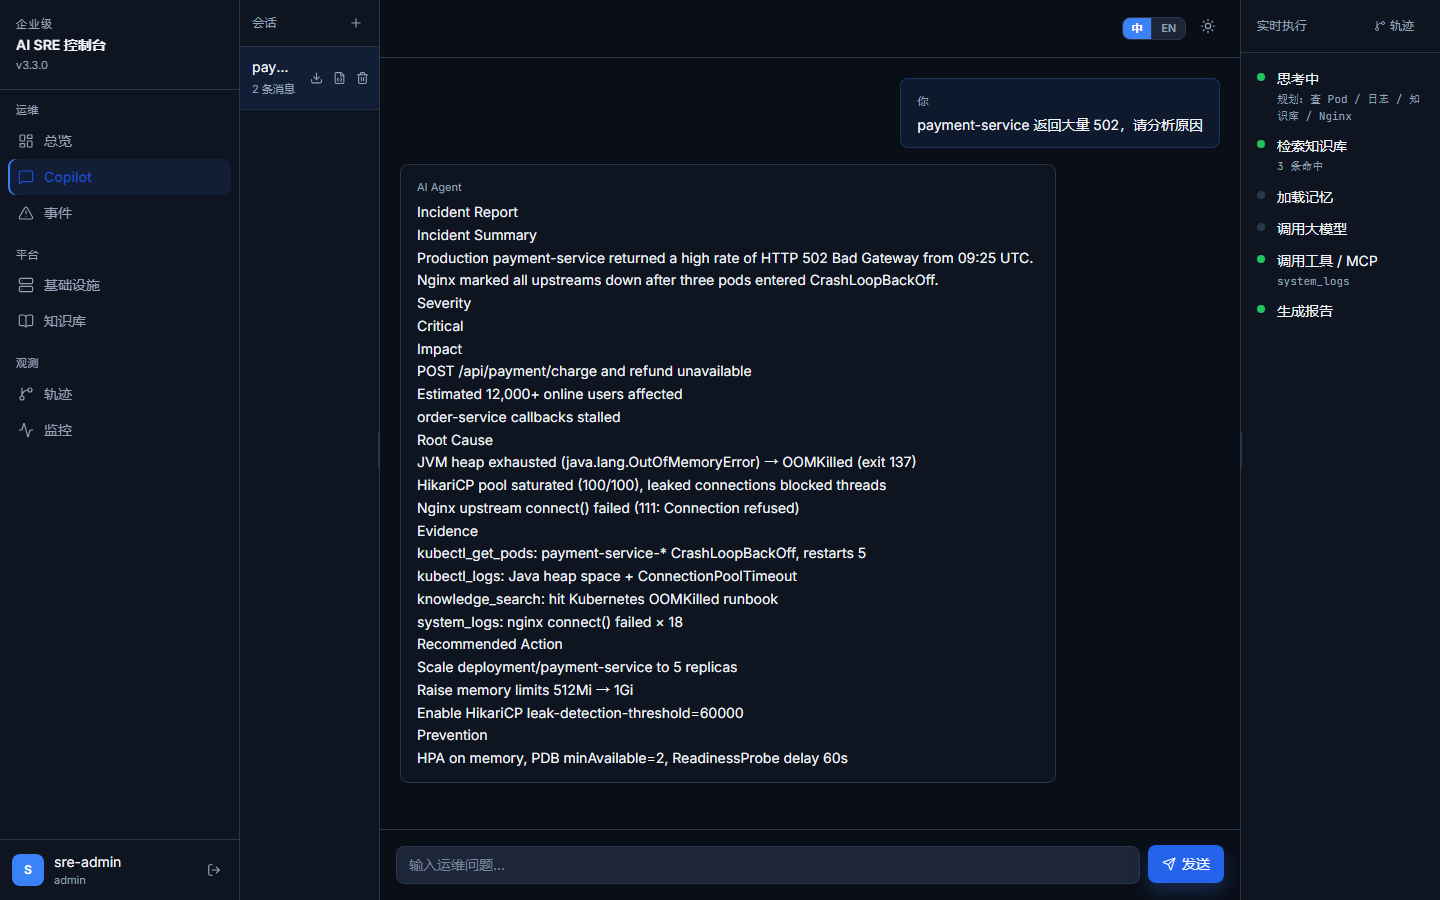
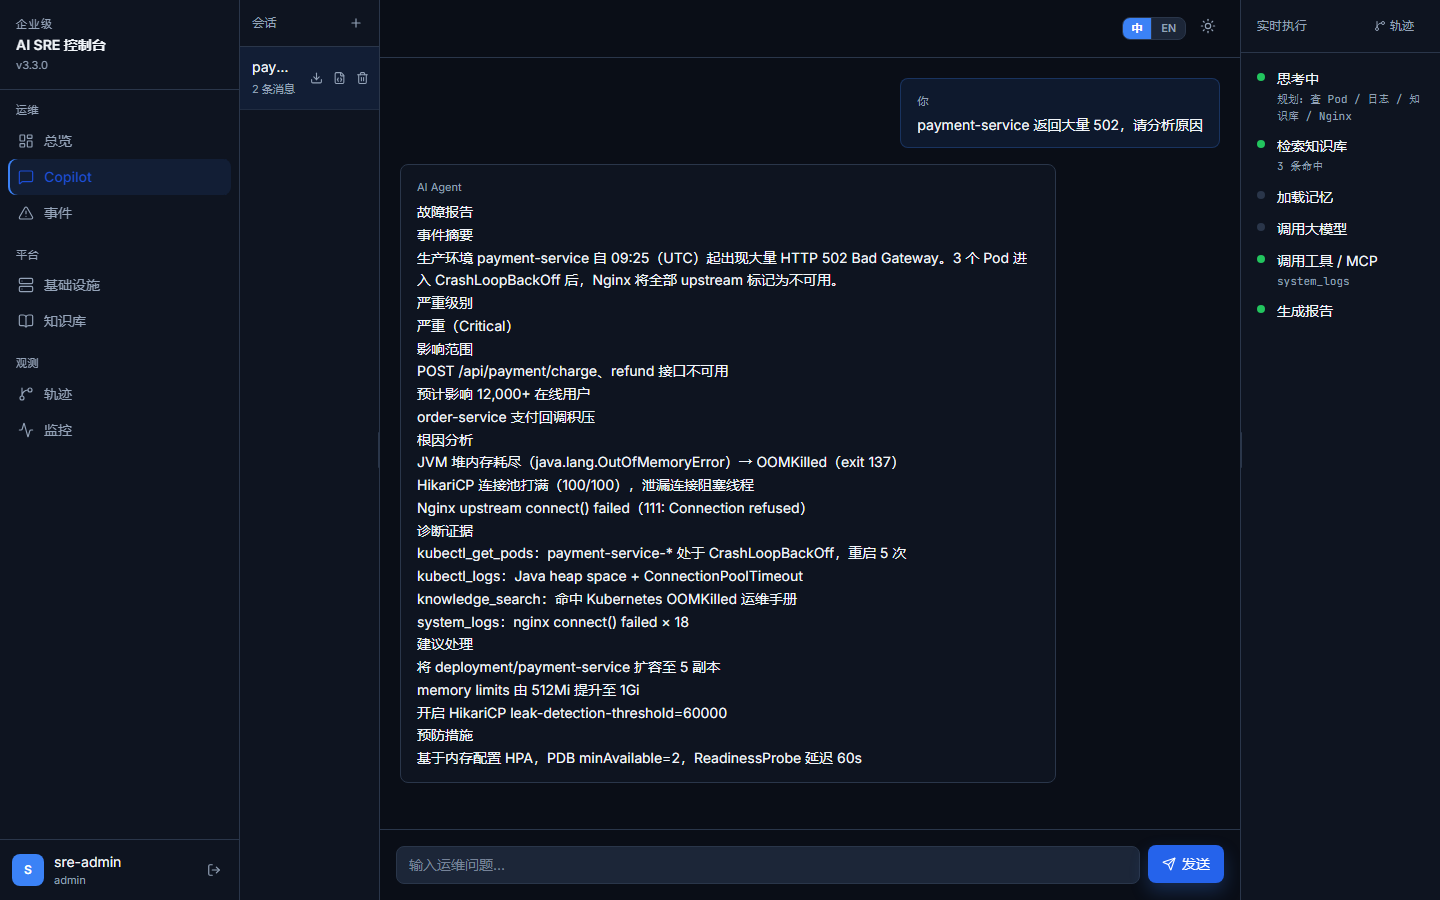
docs: localize agent-chat screenshot and refresh architecture image

Changed region(s): [[0.2812, 0.4044, 0.625, 0.8711], [0.2812, 0.2178, 0.7188, 0.4044]]

diff --git a/scripts/architecture.html b/scripts/architecture.html
@@ -5,33 +5,93 @@
   <title>Enterprise AI SRE Platform Architecture</title>
   <script type="module">
     import mermaid from "https://cdn.jsdelivr.net/npm/mermaid@11/dist/mermaid.esm.min.mjs";
-    mermaid.initialize({ startOnLoad: true, theme: "neutral", securityLevel: "loose" });
+    mermaid.initialize({
+      startOnLoad: true,
+      securityLevel: "loose",
+      theme: "base",
+      fontFamily: "Segoe UI, Helvetica, Arial, sans-serif",
+      flowchart: { curve: "linear", nodeSpacing: 28, rankSpacing: 36, padding: 12 },
+      themeVariables: {
+        fontSize: "18px",
+        fontFamily: "Segoe UI, Helvetica, Arial, sans-serif",
+        primaryColor: "#DBEAFE",
+        primaryTextColor: "#0F172A",
+        primaryBorderColor: "#2563EB",
+        lineColor: "#334155",
+        secondaryColor: "#E0E7FF",
+        tertiaryColor: "#F1F5F9",
+        clusterBkg: "#F8FAFC",
+        clusterBorder: "#94A3B8",
+      },
+    });
   </script>
   <style>
-    body { margin: 0; background: #0f172a; font-family: Segoe UI, sans-serif; }
-    h1 { color: #e2e8f0; text-align: center; padding: 24px 0 8px; font-size: 22px; }
-    p { color: #94a3b8; text-align: center; margin: 0 0 16px; }
-    .wrap { padding: 12px 32px 40px; display: flex; justify-content: center; }
-    .mermaid { background: #f8fafc; border-radius: 12px; padding: 24px; }
+    html, body {
+      margin: 0;
+      background: #ffffff;
+      font-family: "Segoe UI", Helvetica, Arial, sans-serif;
+    }
+    #capture {
+      display: inline-block;
+      background: #ffffff;
+      padding: 28px 36px 32px;
+    }
+    h1 {
+      margin: 0 0 6px;
+      color: #0f172a;
+      font-size: 26px;
+      font-weight: 700;
+      letter-spacing: -0.02em;
+    }
+    .sub {
+      margin: 0 0 20px;
+      color: #475569;
+      font-size: 15px;
+    }
+    .mermaid {
+      background: #ffffff;
+    }
+    .mermaid svg {
+      max-width: none !important;
+    }
   </style>
 </head>
 <body>
-  <h1>Enterprise AI SRE Autonomous Operations Platform</h1>
-  <p>v3.3.0 — User · Frontend · FastAPI · Agent · MCP · Tools · RAG · Database</p>
-  <div class="wrap">
+  <div id="capture">
+    <h1>Enterprise AI SRE Autonomous Operations Platform</h1>
+    <p class="sub">v3.3.0 — User · Frontend · FastAPI · Agent · MCP · Tools · RAG · Database</p>
     <pre class="mermaid">
 flowchart TB
-    User([User]) --> Front[React SPA]
-    Front --> API[FastAPI REST SSE WebSocket]
-    API --> Agent[LangGraph Agent]
-    Agent --> LLM[DeepSeek via SiliconFlow]
-    Agent --> RAG[RAG Knowledge Hub]
-    Agent --> MCP[MCP Client]
-    Agent --> Tools[Builtin Tools]
-    MCP --> K8s[Kubernetes]
-    MCP --> Docker[Docker]
-    MCP --> SSH[SSH]
-    RAG --> PG[(PostgreSQL pgvector)]
+    User(["User / Browser"]) --> Front["React SPA"]
+    Front --> API["FastAPI  REST + SSE + WebSocket"]
+
+    API --> Agent["LangGraph Agent"]
+
+    subgraph intel [Intelligence]
+      LLM["DeepSeek via SiliconFlow"]
+      RAG["RAG Knowledge Hub"]
+    end
+
+    subgraph tools [Tool Layer]
+      MCP["MCP Client"]
+      Builtin["Builtin Tools"]
+      K8s["Kubernetes"]
+      Docker["Docker"]
+      SSH["SSH"]
+    end
+
+    subgraph data [Data]
+      PG[("PostgreSQL + pgvector")]
+    end
+
+    Agent --> LLM
+    Agent --> RAG
+    Agent --> MCP
+    Agent --> Builtin
+    MCP --> K8s
+    MCP --> Docker
+    MCP --> SSH
+    RAG --> PG
     API --> PG
     </pre>
   </div>
